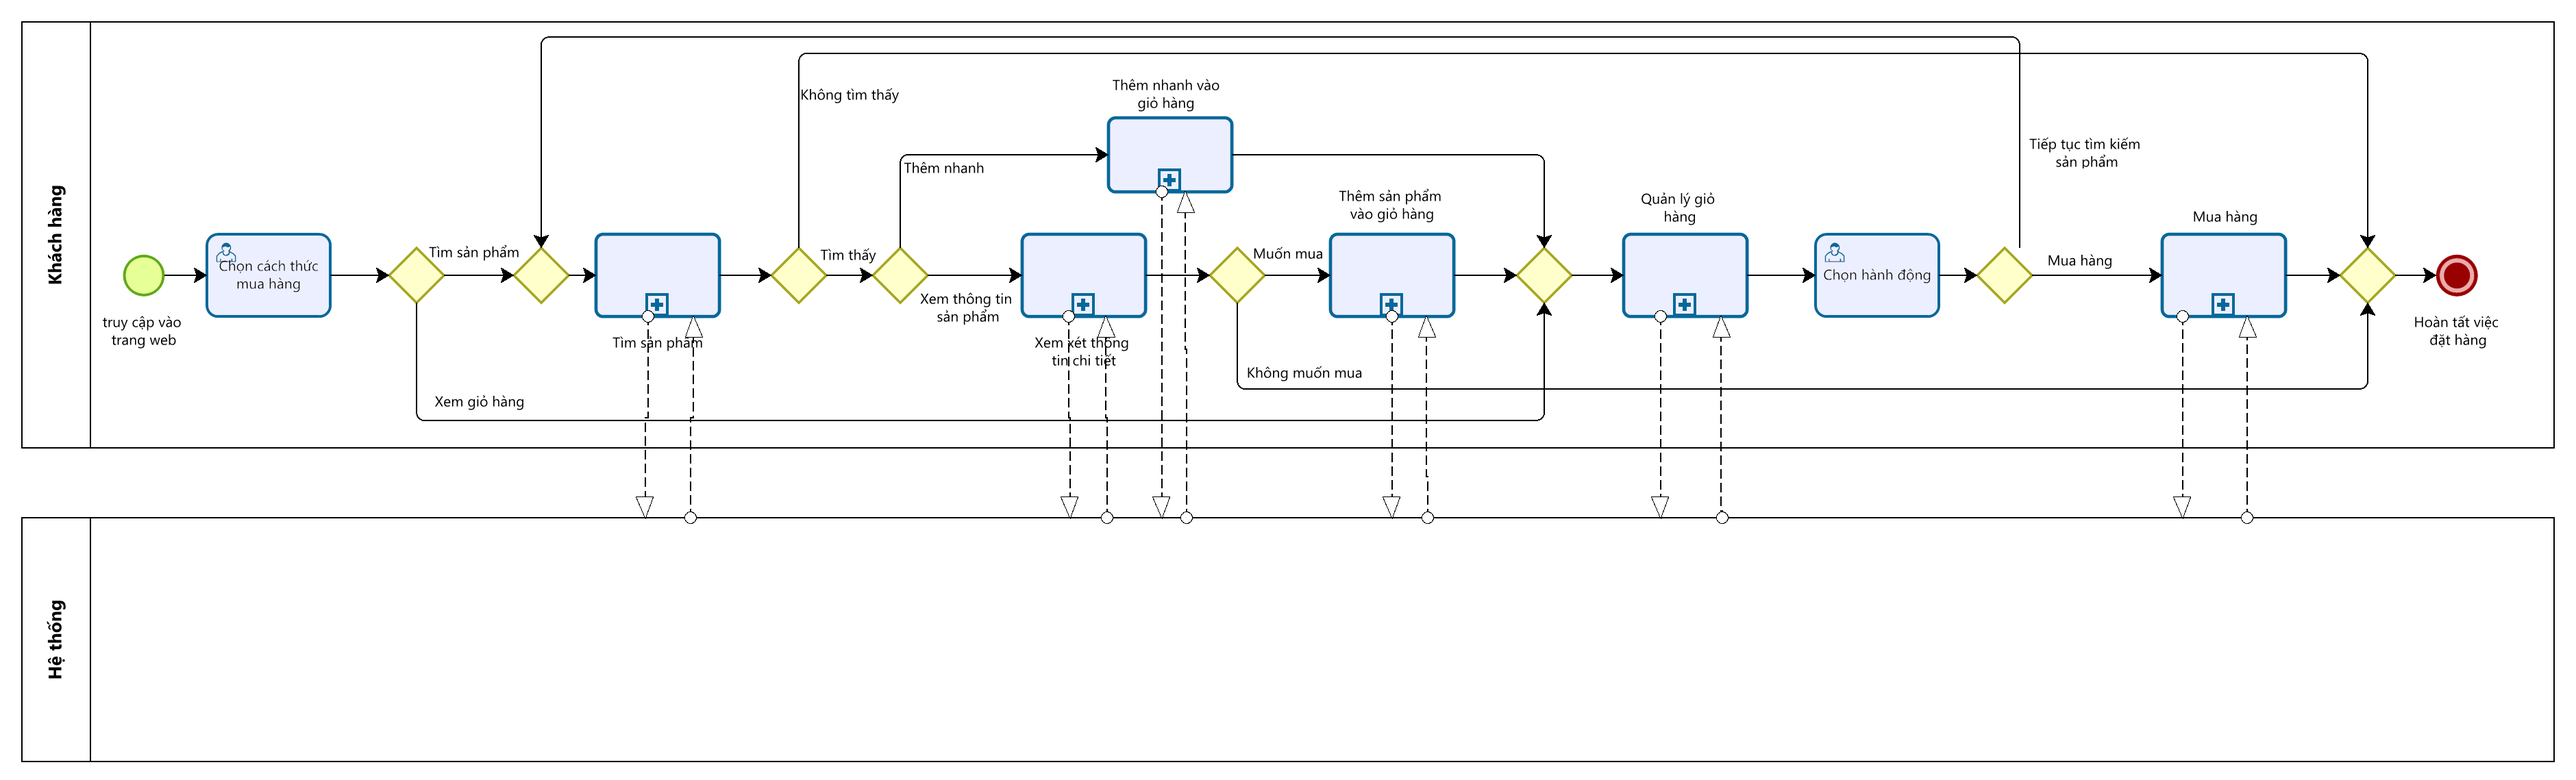
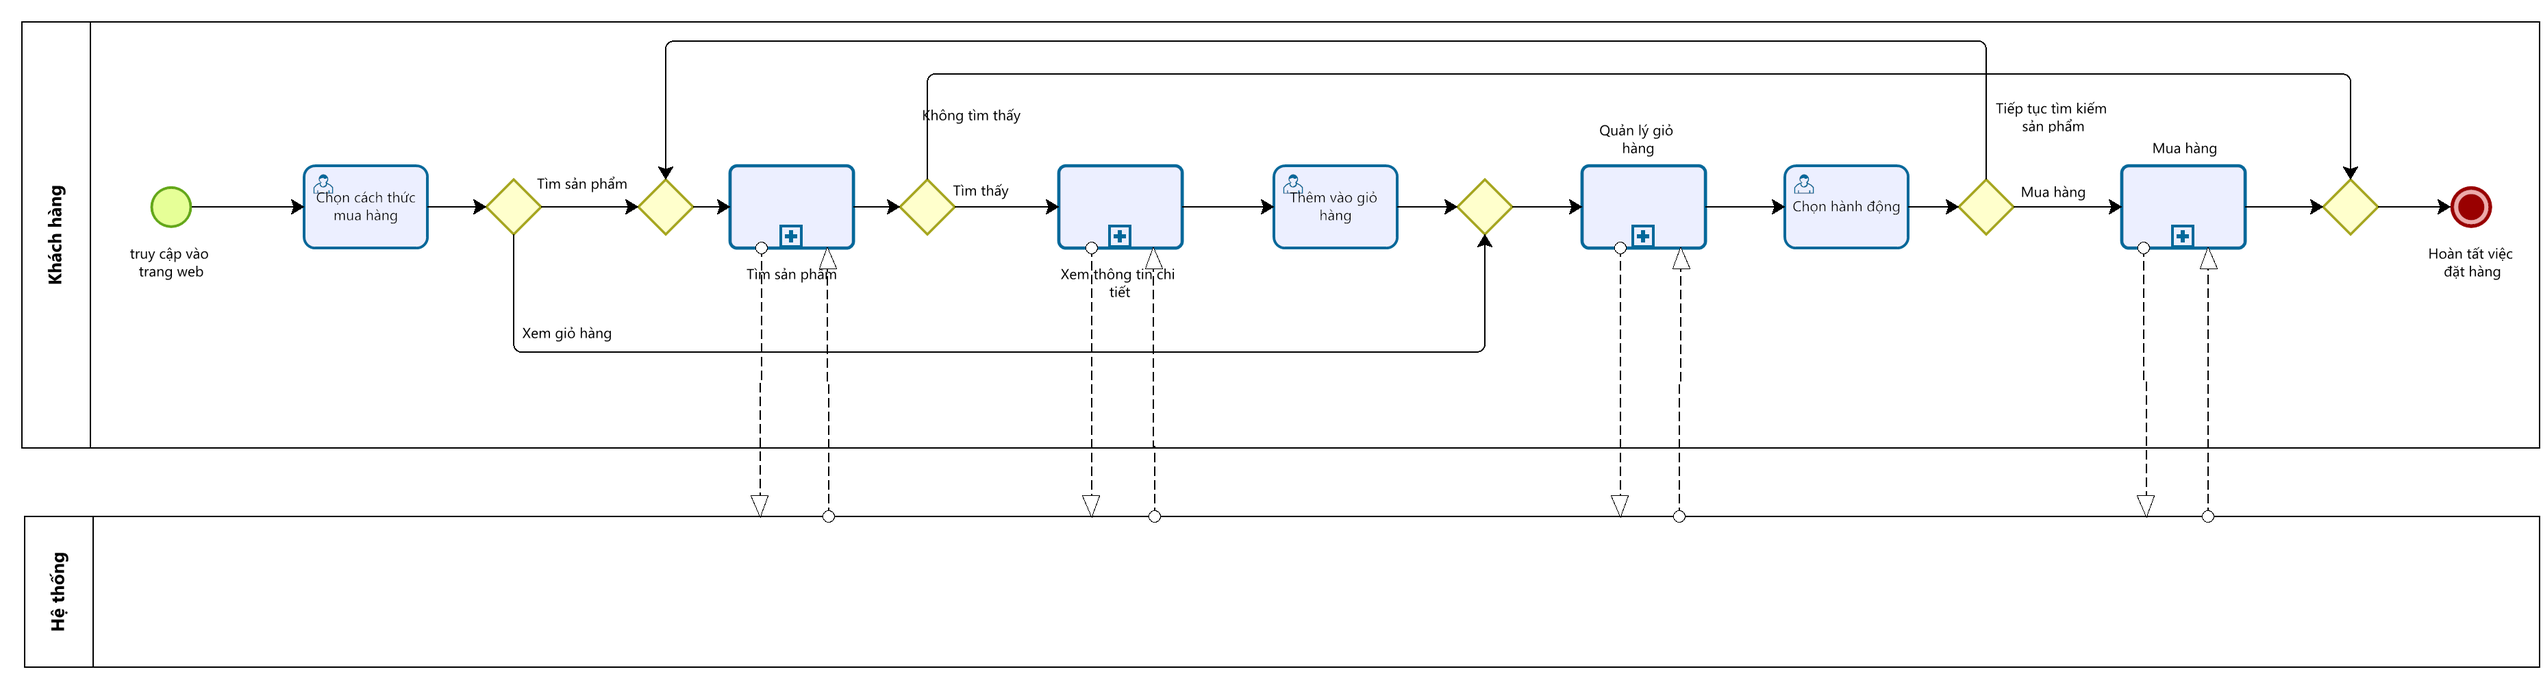
update bpmn

diff --git a/tex/BPMN-diagram.tex b/tex/BPMN-diagram.tex
@@ -13,138 +13,82 @@ Các lược đồ BPMN được nhóm thiết kế trên app Bizagi.
 
 Quy trình bắt đầu khi người dùng truy cập vào giao diện quản lý kho. Hệ thống quản lý kho lấy ra dữ liệu kho cho người dùng thực hiện các tác vụ của mình. Nếu người dùng chỉ xem dữ liệu thì sẽ không có gì xảy ra thêm. Nếu người dùng thêm dữ liệu, người dùng sẽ nhập và submit dữ liệu mới, hệ thống kiểm tra và hoàn thành việc thêm nếu dữ liệu hợp lệ. Nếu người dùng chỉnh sửa dữ liệu, người dùng chỉnh sửa trên dữ liệu hiện tại của kho, hệ thống kiểm tra và hoàn thành việc cập nhật nếu dữ liệu hợp lệ. Nếu người dùng xóa dữ liệu, người dùng xóa kho và submit, hệ thống kiểm tra dữ liệu và hoàn thành việc xóa nếu dữ liệu hợp lệ.
 
-\subsection{Lưu hóa đơn từ cửa hàng}
-\begin{figure}[!htp]
-	\centering
-	\includegraphics[width=8cm]{img/BPMN/Tho/save_invoice.PNG}
-	\newline
-	\caption{Lược đồ BPMN cho quy trình lưu hóa đơn từ cửa hàng}
-\end{figure}
-
-Quy trình bắt đầu sau khi cửa hàng xử lý xong đơn hàng và gửi thông tin đơn hàng cho hệ thống lưu lại. Hệ thống nhận dữ liệu và lưu lại đơn hàng vào hệ thống.
-
-\newpage
-
-\subsection{Khách hàng yêu cầu xuất hóa đơn}
-\begin{figure}[!htp]
-	\centering
-	\includegraphics[width=10cm]{img/BPMN/Tho/invoice_log.PNG}
-	\newline
-	\caption{Lược đồ BPMN cho quy trình khách hàng yêu cầu xuất hóa đơn}
-\end{figure}
-
-Quy trình bắt đầu khi người dùng tạo yêu cầu xuất hóa đơn. Lúc đó bên quản lý đơn nhận được yêu cầu kết xuất hóa đơn, sau đó xử lý yêu cầu. Bên quản lý đơn lấy thông tin đơn hàng, sau đó tạo hóa đơn rồi gửi về lại cho khách hàng. Khách hàng nhận được hóa đơn như đã yêu cầu.
-
-\subsection{Cập nhật trạng thái đơn hàng}
-\begin{figure}[!htp]
-	\centering
-	\includegraphics[width=9cm]{img/BPMN/Tho/update_status.PNG}
-	\newline
-	\caption{Lược đồ BPMN cho quy trình cập nhật trạng thái đơn hàng}
-\end{figure}
-
-Quy trình bắt đầu khi bên giao vận gửi dữ liệu cập nhật trạng thái mới của đơn hàng về cho hệ thống quản lý đơn. Bên quản lý đơn sau khi nhận được trạng thái đơn hàng đã cập nhật sẽ tiến hành cập nhật trạng thái đơn hàng trong hệ thống.
-
-\newpage
-
 \subsection{Khách hàng mua hàng}
 \begin{figure}[!htp]
-    \centering
-    \includegraphics[width=17cm]{img/BPMN/customer_buy/customer_buy.png}
-    \newline
-    \caption{Lược đồ BPMN cho quy trình khách hàng mua hàng}
+	\centering
+	\includegraphics[width=17cm]{img/BPMN/customer_buy/customer_buy.png}
+	\newline
+	\caption{Lược đồ BPMN cho quy trình khách hàng mua hàng}
 \end{figure}
- 
-Quy trình bắt đầu khi người dùng bắt đầu truy cập vào trang web, khách hàng chọn cách thức mua hàng là bắt đầu từ tìm sản phẩm hoặc là bắt đầu mua từ những sản phẩm đã có sẵn trong giỏ hàng. Khi người dùng chọn tìm sản phẩm thì người dùng sẽ thực hiện quy trình con (sub-process) "Tìm sản phẩm". Sau khi thực hiện xong tìm sản phẩm và tìm thấy thì người dùng thực hiện xem thông tin chi tiết để hiểu rõ hơn về sản phẩm và quyết định có muốn thêm sản phẩm vào giỏ hàng hay không; hoặc khi người dùng đã biết về sản phẩm thì có thể thêm chọn thêm nhanh sản phẩm vào giỏ hàng. Sau khi thêm sản phẩm vào giỏ hàng thì người dùng thực hiện quy trình con quản lý giỏ hàng để lựa chọn cũng như cập nhật các đặc điểm mà người dùng mong muốn ở sản phẩm. Sau khi quản lý xong giỏ hàng thì người dùng cần chọn hành động tiếp tục tìm kiếm thêm sản phẩm để mua hàng hoặc là trực tiếp đi đến quy trình con "Mua hàng" và sau đó là kết thúc quy trình.
- 
- 
-\begin{figure}[!htp]
-    \centering
-    \includegraphics[width=13cm]{img/BPMN/customer_buy/customer_search_product.png}
-    \newline
-    \caption{Lược đồ BPMN cho quy trình con tìm kiếm sản phẩm}
-\end{figure}
- 
-Đây là một quy trình con chứa quy trình tìm kiếm sản phẩm mà người dùng muốn tìm kiếm. Bắt đầu từ việc chọn cách duyệt bằng cách duyệt theo ngẫu hứng hay duyệt theo ý muốn. Khi người dũng duyệt theo ý muốn thì thực hiện quy trình con "Chọn loại sản phẩm" để chọn những loại sản phẩm theo ý muốn của khách hàng. Sau khi chọn loại sản phẩm thì hệ thống sẽ nhận thông tin và xử lý, sau đó phản hồi kết quả và người dùng kiểm tra kết quả tìm kiếm và kết thúc quy trình con này.
- 
-\newpage
-\begin{figure}[!htp]
-    \centering
-    \includegraphics[width=12cm]{img/BPMN/customer_buy/customer_select_type.png}
-    \newline
-    \caption{Lược đồ BPMN cho quy trình con chọn loại sản phẩm mà khách hàng muốn tìm}
-\end{figure}
- 
-Đây là một quy trình con chứa quy trình chọn loại sản phẩm mà người dùng muốn tìm kiếm. Bắt đầu từ việc chọn loại duyệt thì người dùng có thể chọn duyệt theo thể loại hoặc duyệt theo tên tìm kiếm hoặc duyệt theo sự kiện.
 
- 
+Quy trình bắt đầu khi người dùng bắt đầu truy cập vào trang web, khách hàng chọn cách thức mua hàng là bắt đầu từ tìm sản phẩm hoặc là bắt đầu mua từ những sản phẩm đã có sẵn trong giỏ hàng. Khi người dùng chọn tìm sản phẩm thì người dùng sẽ thực hiện quy trình con "Tìm sản phẩm". Sau khi thực hiện xong tìm sản phẩm và tìm thấy thì người dùng thực hiện quy trình "xem thông tin chi tiết" để hiểu rõ hơn về sản phẩm và quyết định có muốn thêm sản phẩm vào giỏ hàng hay không. Sau khi thêm sản phẩm vào giỏ hàng thì người dùng thực hiện quy trình con quản lý giỏ hàng để lựa chọn cũng như cập nhật các đặc điểm mà người dùng mong muốn ở sản phẩm. Sau khi quản lý xong giỏ hàng thì người dùng cần chọn hành động tiếp tục tìm kiếm thêm sản phẩm để mua hàng hoặc là trực tiếp đi đến quy trình con "Mua hàng" và sau đó là kết thúc quy trình.
+
+
 \begin{figure}[!htp]
-    \centering
-    \includegraphics[width=10cm]{img/BPMN/customer_buy/customer_product_detail.png}
-    \newline
-    \caption{Lược đồ BPMN cho quy trình xem xét thông tin chi tiết của sản phẩm}
+	\centering
+	\includegraphics[width=11cm]{img/BPMN/customer_buy/customer_search_product.png}
+	\newline
+	\caption{Lược đồ BPMN cho quy trình con tìm kiếm sản phẩm}
 \end{figure}
- 
-Đây là một quy trình con chứa quy trình xem thông tin chi tiết của sản phẩm, sau khi khách hàng chọn sản phẩm muốn xem thông tin chi tiết thì hệ thống sẽ thực hiện lấy thông tin chi tiết sản phẩm từ cơ sở dữ liệu và phản hồi kết quả về cho khách hàng. Sau khi nhận được kết quả thì khách hàng xem thông tin chi tiết của sản phẩm và kết thúc quy trình.
- 
- 
- 
+
+Đây là một quy trình con chứa quy trình tìm kiếm sản phẩm mà người dùng muốn tìm kiếm. Bắt đầu từ việc chọn cách duyệt bằng cách duyệt theo ngẫu hứng hay duyệt theo ý muốn. Khi người dũng duyệt theo ý muốn thì thực hiện quy trình con "Chọn loại sản phẩm" để chọn những loại sản phẩm theo ý muốn của khách hàng. Sau khi chọn loại sản phẩm thì hệ thống sẽ nhận thông tin và xử lý, sau đó phản hồi kết quả và người dùng kiểm tra kết quả tìm kiếm và kết thúc quy trình con này.
+
 \begin{figure}[!htp]
-    \centering
-    \includegraphics[width=17cm]{img/BPMN/customer_buy/customer_add_to_card.png}
-    \newline
-    \caption{Lược đồ BPMN cho quy trình thêm sản phẩm vào giỏ hàng}
+	\centering
+	\includegraphics[width=9cm]{img/BPMN/customer_buy/customer_buy_product_detail.png}
+	\newline
+	\caption{Lược đồ BPMN cho quy trình con xem chi tiết sản phẩm}
 \end{figure}
- 
-Đây là một quy trình con chứa quy trình thêm sản phẩm vào giỏ hàng, sau khi khách hàng xem thông tin chi tiết và muốn mua sản phẩm thì người dùng các thông tin sản phẩm mà khách hàng muốn thêm sau đó xác nhận thêm vào giỏ hàng. Thông tin sản phẩm khách hàng chọn thêm vào giỏ hàng được gửi đi và hệ thống thực hiện kiểm tra tài khoản khách hàng đã đăng nhập chưa, sau khi xác nhận được đã đăng nhập thì hệ thống kiểm tra thông tin và cập nhật thông tin sản phẩm vào giỏ hàng, sau đó gửi kết quả về phía khách hàng. Sau khi nhận được kết quả thì người dùng kiểm tra kết quả và kết thúc quy trình.
- 
- 
-\begin{figure}[!htp]
-    \centering
-    \includegraphics[width=16cm]{img/BPMN/customer_buy/customer_add_fast.png}
-    \newline
-    \caption{Lược đồ BPMN cho quy trình thêm nhanh sản phẩm vào giỏ hàng}
-\end{figure}
- 
-Đây là một quy trình con chứa quy trình thêm nhanh sản phẩm vào giỏ hàng, sau khi khách hàng chọn thêm nhanh sản phẩm vào giỏ hàng. Thông tin sản phẩm khách hàng chọn thêm vào giỏ hàng được gửi đi và hệ thống thực hiện kiểm tra tài khoản khách hàng đã đăng nhập chưa, sau khi xác nhận được đã đăng nhập thì hệ thống kiểm tra thông tin và cập nhật thông tin sản phẩm vào giỏ hàng, sau đó gửi kết quả về phía khách hàng. Sau khi nhận được kết quả thì người dùng kiểm tra kết quả và kết thúc quy trình.
- 
-\begin{figure}[!htp]
-    \centering
-    \includegraphics[width=17cm]{img/BPMN/customer_buy/customer_cart.png}
-    \newline
-    \caption{Lược đồ BPMN cho quy trình quản lý giỏ hàng}
-\end{figure}
- 
-Đây là một quy trình con chứa quy trình quản lý giỏ hàng. Quy trình bắt đầu từ khi khách hàng chọn vào giỏ hàng. Hệ thống thực hiện kiểm tra tài khoản rồi sau đó truy xuất dữ liệu giỏ hàng của tài khoản khách hàng và phản hồi về lại cho khách hàng. Khách hàng thực thực hiện xem xét giỏ hàng và thực hiện thay đổi thông tin sản phẩm trong giỏ hàng bằng cách thay đổi thông tin sản phẩm hay xóa sản phẩm khỏi giỏ hàng, hệ thống nhận thông tin thay đổi sau đó kiểm tra thông tin và cập nhật thông tin giỏ hàng rồi trả về kết quả, khách hàng nhận kết quả và kết thúc quy trình.
- 
+
+Đây là một quy trình con chứa quy trình xem chi tiết sản phẩm mà người dùng muốn tìm kiếm. Bắt đầu từ việc người dùng gửi thông tin cho hàng muốn tìm cho hệ thống. Hệ thống thực hiện tìm kiếm và tính toán, sau đó gửi thông tin cho khách hàng. Sau khi nhận được kết quả thì khách hàng xem thông tin chi tiết của sản phẩm và kết thúc quy trình.
+
+
 \newpage
- 
 \begin{figure}[!htp]
-    \centering
-    \includegraphics[width=17cm]{img/BPMN/customer_buy/customer_buy_order.png}
-    \newline
-    \caption{Lược đồ BPMN cho quy trình mua hàng}
+	\centering
+	\includegraphics[width=9cm]{img/BPMN/customer_buy/customer_select_type.png}
+	\newline
+	\caption{Lược đồ BPMN cho quy trình con chọn loại sản phẩm mà khách hàng muốn tìm}
 \end{figure}
- 
-Đây là một quy trình con chứa quy trình đặt mua hàng của khách hàng. Khách hàng chọn các sản phẩm trong giỏ hàng mà bản thân muốn mua và chọn "Đặt hàng". Hệ thống thực hiện kiểm tra hàng hóa và phản hồi về lại cho khách hàng. Sau khi chọn "Đặt hàng" và nhận kết quả xác nhận hàng hóa, khách hàng thực thực hiện nhập địa chỉ giao hàng, hệ thống sẽ thực hiện xử lý giao hàng và giá tiền để tính tổng hóa hơn cho khách hàng. Khách hàng thực hiện kiểm tra thông tin sau khi nhận lại thông tin giá tiền, nếu chưa chính xác về địa chỉ gia hàng thì quay lại nhập địa chỉ giao hàng, nếu đã chính xác thì thực hiện chọn phương thức thanh toán và chọn "Thanh toán". Hệ thống kiểm tra thông tin thanh toán mà người dùng chọn sau đó thực hiện quy trình "Thanh toán", sau khi kết thúc quy trình thanh toán thì hệ thống phản hồi và hiển thị thông báo kết quả đơn hàng, nếu thành công thì kết thúc quy trình, nếu thất bại thì khách hàng quay lại chọn phương thức thanh toán phù hợp.
- 
+
+Đây là một quy trình con chứa quy trình chọn loại sản phẩm mà người dùng muốn tìm kiếm. Bắt đầu từ việc chọn loại duyệt thì người dùng có thể chọn duyệt theo thể loại hoặc duyệt theo tên tìm kiếm.
+
 \begin{figure}[!htp]
-    \centering
-    \includegraphics[width=5in]{img/BPMN/customer_buy/customer_calc_fee.png}
-    \newline
-    \caption{Lược đồ BPMN cho quy trình tính toán chi phí đơn hàng}
+	\centering
+	\includegraphics[width=14cm]{img/BPMN/customer_buy/customer_cart.png}
+	\newline
+	\caption{Lược đồ BPMN cho quy trình quản lý giỏ hàng}
 \end{figure}
- 
-Đây là một quy trình con chứa quy trình tính toán chi phí đơn hàng. Hệ thống thực hiện kiểm tra kho để tạo đơn hàng vận chuyển, nếu không có kho nào đủ hàng cho khách hàng thì cần thực hiện tính toán trao đổi kho và gửi thông tin trao đổi hàng cho kho. Sau khi thực hiện tính toán kho thì thực hiện tính toán giá giao hàng và tính tổng tiền của đơn hàng.
- 
+
+Đây là một quy trình con chứa quy trình quản lý giỏ hàng. Quy trình bắt đầu từ khi khách hàng chọn vào giỏ hàng. Hệ thống thực hiện kiểm tra tài khoản rồi sau đó truy xuất dữ liệu giỏ hàng của tài khoản khách hàng và phản hồi về lại cho khách hàng. Khách hàng thực thực hiện xem xét giỏ hàng và thực hiện thay đổi thông tin sản phẩm trong giỏ hàng bằng cách thay đổi thông tin sản phẩm hay xóa sản phẩm khỏi giỏ hàng, hệ thống nhận thông tin thay đổi sau đó kiểm tra thông tin và cập nhật thông tin giỏ hàng rồi trả về kết quả, khách hàng nhận kết quả và kết thúc quy trình.
+
+
 \begin{figure}[!htp]
-    \centering
-    \includegraphics[width=15cm]{img/BPMN/customer_buy/customer_payment.png}
-    \newline
-    \caption{Lược đồ BPMN cho quy trình thanh toán đơn hàng}
+	\centering
+	\includegraphics[width=17cm]{img/BPMN/customer_buy/customer_buy_order.png}
+	\newline
+	\caption{Lược đồ BPMN cho quy trình mua hàng}
 \end{figure}
- 
-Đây là một quy trình con chứa quy trình thanh toán đơn hàng. Quy trình bắt đầu từ sự kiện nhận thông tin thanh toán, nếu thanh toán trực tiếp khi nhận hàng thì thực hiện cập nhật đơn hàng. Nếu phương thức thanh toán là trực tuyến thì hệ thống thực hiện gửi thông tin thanh toán cho bên thứ ba tương ứng với bên mà người dùng chọn, sau đó chờ bên thứ ba trả về kết quả thanh toán. Sau khi nhận được kết quả từ bên thứ ba thì thông báo kết quả với người dùng, nếu thanh toán thành công thì thực hiện cập nhật đơn hàng vào hệ thống, khi cập nhật đơn hàng thành công thì thực hiện gửi thông tin vận chuyển đến dịch vụ vận chuyển của bên thứ ba và kết thúc quy trình.
+
+Đây là một quy trình con chứa quy trình đặt mua hàng của khách hàng. Khách hàng chọn các sản phẩm trong giỏ hàng mà bản thân muốn mua và chọn "Đặt hàng" và nhập địa chỉ giao hàng, hệ thống sẽ thực hiện tính toán giao hàng để tính tổng hóa hơn cho khách hàng. Khách hàng thực hiện kiểm tra thông tin sau khi nhận lại thông tin giá tiền, tiếp theo thực hiện chọn phương thức thanh toán và chọn "Thanh toán", khách hàng sẽ thực hiện thanh toán với bên thứ 3. Khi thanh toán thành công, hệ thống thực hiện tạo đơn hàng và phản hồi thông báo kết quả đơn hàng.
+
+\begin{figure}[!htp]
+	\centering
+	\includegraphics[width=5cm]{img/BPMN/customer_buy/customer_calc_fee.png}
+	\newline
+	\caption{Lược đồ BPMN cho quy trình tính toán chi phí giao hàng}
+\end{figure}
+
+Đây là một quy trình con thực hiện tính toán giá giao hàng giựa trên địa chi của khách hàng.
+
+\begin{figure}[!htp]
+	\centering
+	\includegraphics[width=9cm]{img/BPMN/customer_buy/customer_payment.png}
+	\newline
+	\caption{Lược đồ BPMN cho quy trình tạo đơn hàng}
+\end{figure}
+
+Đây là một quy trình con chứa quy trình tạo đơn hàng. Quy trình bắt đầu từ sự kiện nhận thông tin đơn hàng, hệ thống thực hiện kiểm tra đơn hàng có cần thực hiện chuyển kho không, nếu có sẽ tiến hành chuyển. Sau cùng hệ thống sẽ cập nhật thông tin đơn hàng.
 
 
 \subsection{Quản lý sự kiện}

diff --git a/main.tex b/main.tex
@@ -366,9 +366,9 @@ Cuối cùng, nhóm xin gửi lời cám ơn đến quý thầy cô trong Khoa K
 % Usecase
 % \input{tex/usecase}
 
-% % \newpage
-% % % BPMN
-% \input{tex/BPMN-diagram}
+% \newpage
+% % BPMN
+\input{tex/BPMN-diagram}
 
 % \newpage
 % % Architecture
@@ -404,9 +404,9 @@ Cuối cùng, nhóm xin gửi lời cám ơn đến quý thầy cô trong Khoa K
 
 % %%%%%%%%%%%%%%%%%%%%%%%%%%%%%%%%%%%%
 
-\chapter{Kiểm thử phần mềm}
-% summary
-\input{tex/testing}
+% \chapter{Kiểm thử phần mềm}
+% % summary
+% \input{tex/testing}
 
 % %%%%%%%%%%%%%%%%%%%%%%%%%%%%%%%%%%%%
 
